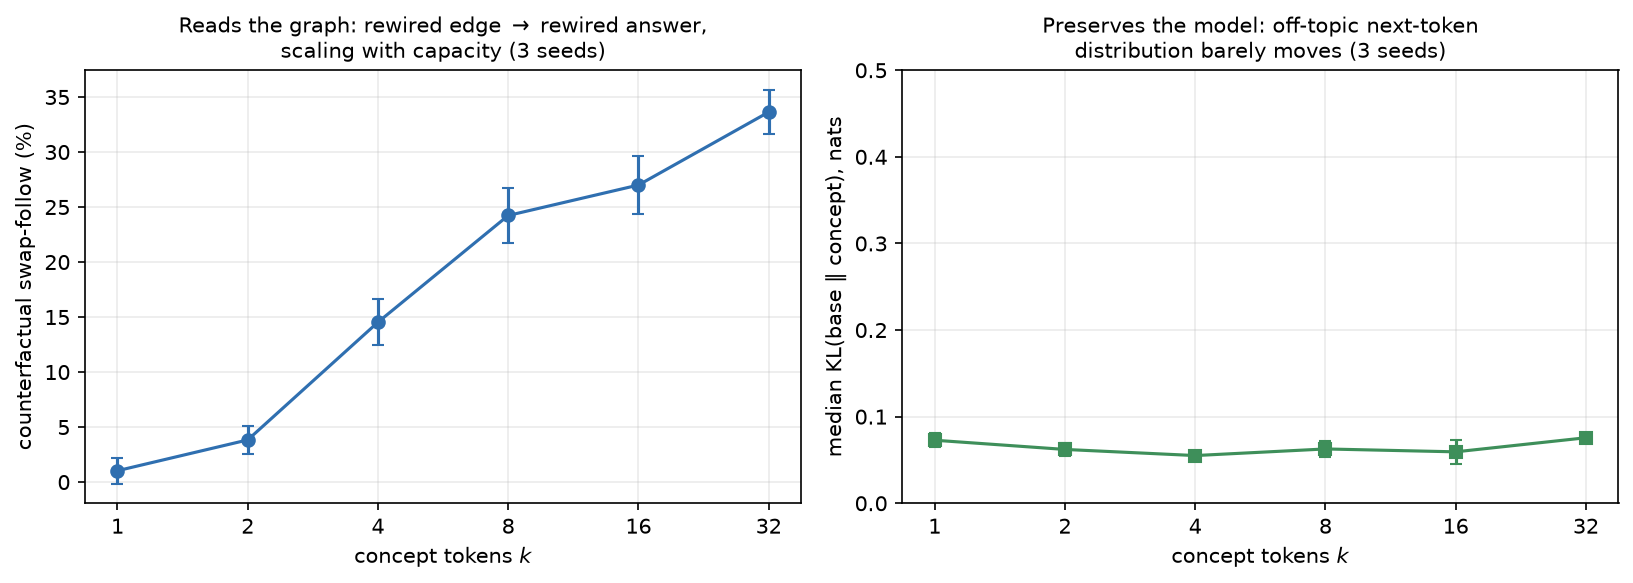
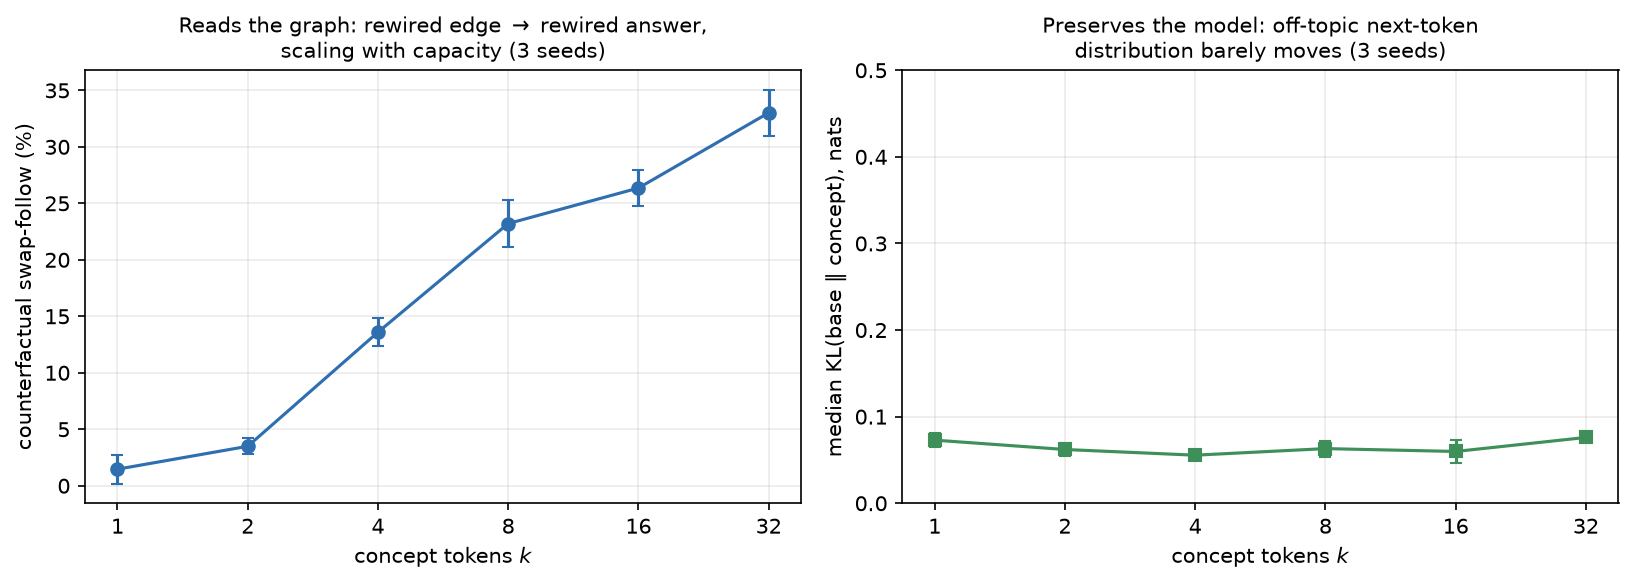
Paper: state before_entity placement truthfully; Fig 5 reads durable probe reports
The Method formula read as prefix placement and Table 3 bolded prefix, but every
headline checkpoint (100k k-family, scaling grid, transfer) trains at before_entity
(F9 recipe decision: mention-anchored placement extends to multi-entity prompts;
2.2 pt vs prefix, within noise). Method, Table 3, and the ablation text now say so.

cf2_figures.py drops the transcribed SWAP/CAP_KL tables and reads
data/analysis/probes/ live. The 18-cell re-run reproduces s0/s2 exactly; s1
swap-follow drifted 1-3 pt (pre-fla-kernel logs; noted in F17). Probe ranges in
the paper updated to artifact values (swap ~1->33%, ablation 26-58% vs 90-97%).

Claude-Session: https://claude.ai/code/session_01UNefkRAg5SSdSiFHusGje6

diff --git a/v2/paper/main.tex b/v2/paper/main.tex
@@ -103,7 +103,7 @@ $k{=}32$ and a three-way trade structure: data scales injection up ($2.3\times$ 
 entities), tokens partially substitute for data, and we measure the frozen-model-size axis
 across the Qwen3 family (\S\ref{sec:scaling}).
 \textbf{(3)}~Causal evidence that the model reads the injected graph --- counterfactual
-edge-swap following that scales from $\sim$1\% ($k{=}1$) to $\sim$34\% ($k{=}32$) --- alongside
+edge-swap following that scales from $\sim$1\% ($k{=}1$) to $\sim$33\% ($k{=}32$) --- alongside
 capability preservation and prompt robustness (\S\ref{sec:probes}), and \emph{zero-shot
 cross-graph transfer}: the Wikidata-trained encoder lifts MetaQA-1hop accuracy from $0.06$ to
 $0.34$ with no MetaQA training (\S\ref{sec:transfer}).
@@ -209,8 +209,11 @@ multiplicative gate.
 
 \paragraph{Objective.} The teacher is $M$ reading
 $[\text{system}][\text{verbalized } G_e][\text{question}]$; its greedy answer path $y_{1..m}$ is
-stored offline. The student is $M$ reading $[\text{system}][C_k(G_e)][\text{question}]$, with
-the concept block occupying a contiguous unit-step RoPE span. The loss is the token-level
+stored offline. The student is $M$ reading the same question with the concept block
+$C_k(G_e)$ spliced in immediately \emph{before the entity mention}, occupying a contiguous
+unit-step RoPE span. Placement is ablated in Table~\ref{tab:ablations}; we use
+mention-anchored placement throughout because it extends to prompts mentioning multiple
+entities, where each mention would receive its own concept block. The loss is the token-level
 full-vocabulary forward KL along the stored path,
 \begin{equation}
   \mathcal{L} = \frac{\tau^2}{m}\sum_{t=1}^{m}
@@ -375,10 +378,10 @@ A compression system can score well on QA while treating the graph as an opaque 
 signal. Following the deficiency diagnosed across graph-token systems \citep{gteval,sink}, we
 evaluate causally, by intervening on the \emph{input graph} of a trained model and re-encoding:
 (a)~\emph{edge ablation} --- removing the questioned edge collapses accuracy on that question
-(to 28--55\% depending on $k$) while removing an unrelated edge leaves it intact (90--96\%):
+(to 26--58\% depending on $k$) while removing an unrelated edge leaves it intact (90--97\%):
 edges are encoded separably; (b)~\emph{counterfactual swap} --- rewiring the questioned edge to
 a plausible false neighbor flips the model to the \emph{false} answer with probability rising
-monotonically from $\sim$1\% at $k{=}1$ to $\sim$34\% at $k{=}32$
+monotonically from $\sim$1\% at $k{=}1$ to $\sim$33\% at $k{=}32$
 (Figure~\ref{fig:probes}, left; 3 seeds). Since the frozen base solves only 10\% of these
 probes, parametric memory cannot explain the behavior: the concept tokens are causally
 load-bearing, and faithfulness is \emph{capacity-limited rather than absent}. Meanwhile
@@ -449,7 +452,7 @@ reusable graph$\to$concept mapping, not a Wikidata-specific compression.
     ablation & variants & held-out & note\\
     \midrule
     encoder capacity & 10M / 21M / \textbf{70M} / 231M & .423 / .441 / \textbf{.453} / .376 & peak at $\sim$70M; largest is worst\\
-    placement & \textbf{prefix} / before / after / replace & \textbf{.453} / .423 / .434 / .380 & entity-adjacency does not help\\
+    placement & prefix / \textbf{before} / after / replace & .453 / \textbf{.423} / .434 / .380 & \textbf{before} adopted (multi-entity)\\
     prompt augmentation & off / \textbf{on} & .453 / \textbf{.472} & \popqa{} $+2.0$\,pt; pooled $p{=}3{\times}10^{-36}$\\
     neighbor subsampling & \textbf{off} / on & $\Delta \approx 1$\,pt & null; cached teacher is $2\times$ faster\\
     \bottomrule
@@ -457,10 +460,12 @@ reusable graph$\to$concept mapping, not a Wikidata-specific compression.
 \end{table}
 
 Table~\ref{tab:ablations}: encoder capacity peaks near 70M parameters with the 231M encoder
-clearly worst at this budget; placing concepts adjacent to (or in place of) the entity mention
-does not beat a simple prefix; multi-prompt augmentation yields a small but, under pooled
-paired testing, significant gain with real seed heterogeneity; per-step re-sampling of teacher
-distractors is a null at our context budget.
+clearly worst at this budget; placement is a design choice, not an accuracy lever ---
+prefix, before-entity, and after-entity cluster within noise (only \emph{replacing} the
+mention is clearly worse and unstable), and we adopt before-entity for all main results
+because mention-anchoring is what generalizes to multi-entity prompts; multi-prompt
+augmentation yields a small but, under pooled paired testing, significant gain with real seed
+heterogeneity; per-step re-sampling of teacher distractors is a null at our context budget.
 
 \section{Discussion}
 

diff --git a/v2/scripts/cf2_figures.py b/v2/scripts/cf2_figures.py
@@ -1,11 +1,10 @@
 """ConceptFormer-2 paper figures (Figs 3-5): matched k-curves, data x model grid, causal probes.
 
-All accuracy data is read live from data/analysis/eval_final/ (the M7 ground truth), so the
-figures regenerate as grid cells land (missing cells are skipped). The probe panel values are
-transcribed from the faithfulness/capability sweep logs (provenance: W&B group
-phaseC-kfamily-100k checkpoints; seeds s1 = docs/RESEARCH_FINDINGS.md F13/F15 tables, seeds
-s0/s2 = the 2026-07-06 sweep logs) -- re-run cf-graph-faithfulness / cf-capability-preservation
-to re-verify.
+All data is read live from data/analysis/ (the M7 ground truth): accuracies from eval_final/,
+probe panels from probes/<ckpt>__{faithfulness,capability}/summary.json (the durable reports
+written by cf-graph-faithfulness / cf-capability-preservation since 2026-07-07; the 18-cell
+sweep over pc_k* regenerates them). Figures regenerate as cells land; missing cells are
+skipped.
 
 Run: uv run --group viz python scripts/cf2_figures.py
 """
@@ -126,15 +125,27 @@ fig2.savefig(OUT / "fig_grid.png", dpi=150, bbox_inches="tight")
 print("wrote fig_grid.png")
 
 # ----------------------------------------------------------- Fig 5: causal probes vs k
-# Transcribed 3-seed probe results (see module docstring for provenance).
-SWAP = {  # k -> [s0, s1, s2] counterfactual swap-follow, ALL condition, %
-    1: [0.0, 0.8, 2.3], 2: [3.1, 5.3, 3.1], 4: [12.3, 16.5, 14.8],
-    8: [21.4, 25.8, 25.5], 16: [26.6, 29.8, 24.6], 32: [35.3, 34.2, 31.4],
-}
-CAP_KL = {  # k -> [s0, s1, s2] median next-token KL(base||concept) on control tasks, nats
-    1: [0.0695, 0.082, 0.0668], 2: [0.0705, 0.058, 0.0579], 4: [0.0503, 0.061, 0.0539],
-    8: [0.0697, 0.066, 0.0524], 16: [0.0516, 0.075, 0.0515], 32: [0.0755, 0.078, 0.0734],
-}
+PROBES = ROOT / "data/analysis/probes"
+
+
+def probe_values(probe: str, key: tuple[str, ...]) -> dict[int, list[float]]:
+    out: dict[int, list[float]] = {}
+    for k in KS:
+        for name in curve_names("100k", k):
+            p = PROBES / f"{name}__{probe}" / "summary.json"
+            if not p.exists():
+                continue
+            v = json.loads(p.read_text())
+            for part in key:
+                v = v[part]
+            out.setdefault(k, []).append(float(v))
+    return out
+
+
+SWAP = {k: [100 * v for v in vs]  # counterfactual swap-follow, ALL condition, %
+        for k, vs in probe_values("faithfulness", ("swap_follow", "acc")).items()}
+# median next-token KL(base||concept) on control tasks, nats
+CAP_KL = probe_values("capability", ("kl", "median"))
 fig3, (ax1, ax2) = plt.subplots(1, 2, figsize=(11, 4.0))
 means = [statistics.mean(SWAP[k]) for k in KS]
 errs = [statistics.stdev(SWAP[k]) for k in KS]

diff --git a/v2/docs/RESEARCH_FINDINGS.md b/v2/docs/RESEARCH_FINDINGS.md
@@ -1004,7 +1004,13 @@ MetaQA-trained contrast (Phase B) not yet run — do not claim anything about tr
 now write summary.json + items.jsonl to `data/analysis/probes/<ckpt>__{faithfulness,capability}/`
 (`eval/probes.py`); the F13/F15 sweep re-run over all 18 `pc_k*` checkpoints regenerates them
 as durable artifacts (legacy terminal logs preserved in `data/analysis/probes/legacy_logs/`).
-First re-run cell matches the transcribed values exactly (pc_k1_best swap-follow 0.0%).
+All s0/s2 cells reproduce the transcribed values exactly. Every **s1 swap-follow drifted 1--3 pt
+(mixed sign)** vs the F13 table (same command, checkpoint, --n 400 --seed 0); s1 capability KLs
+match. The F13 s1 sweep ran 2026-07-03, before the fla fast-kernel install -- kernel-level logit
+differences flipping a handful of near-tie generations is the working explanation. Qualitative
+curve unchanged (new 3-seed swap means: 1.5/3.5/13.6/23.2/26.4/33.0% for k=1..32; was ~1->34%,
+now ~1->33%). `cf2_figures.py` now reads the probe reports live (hardcoded tables removed);
+the durable artifacts, not the F13/F15 transcriptions, are the source of truth for Fig. 5.
 
 ---
 
